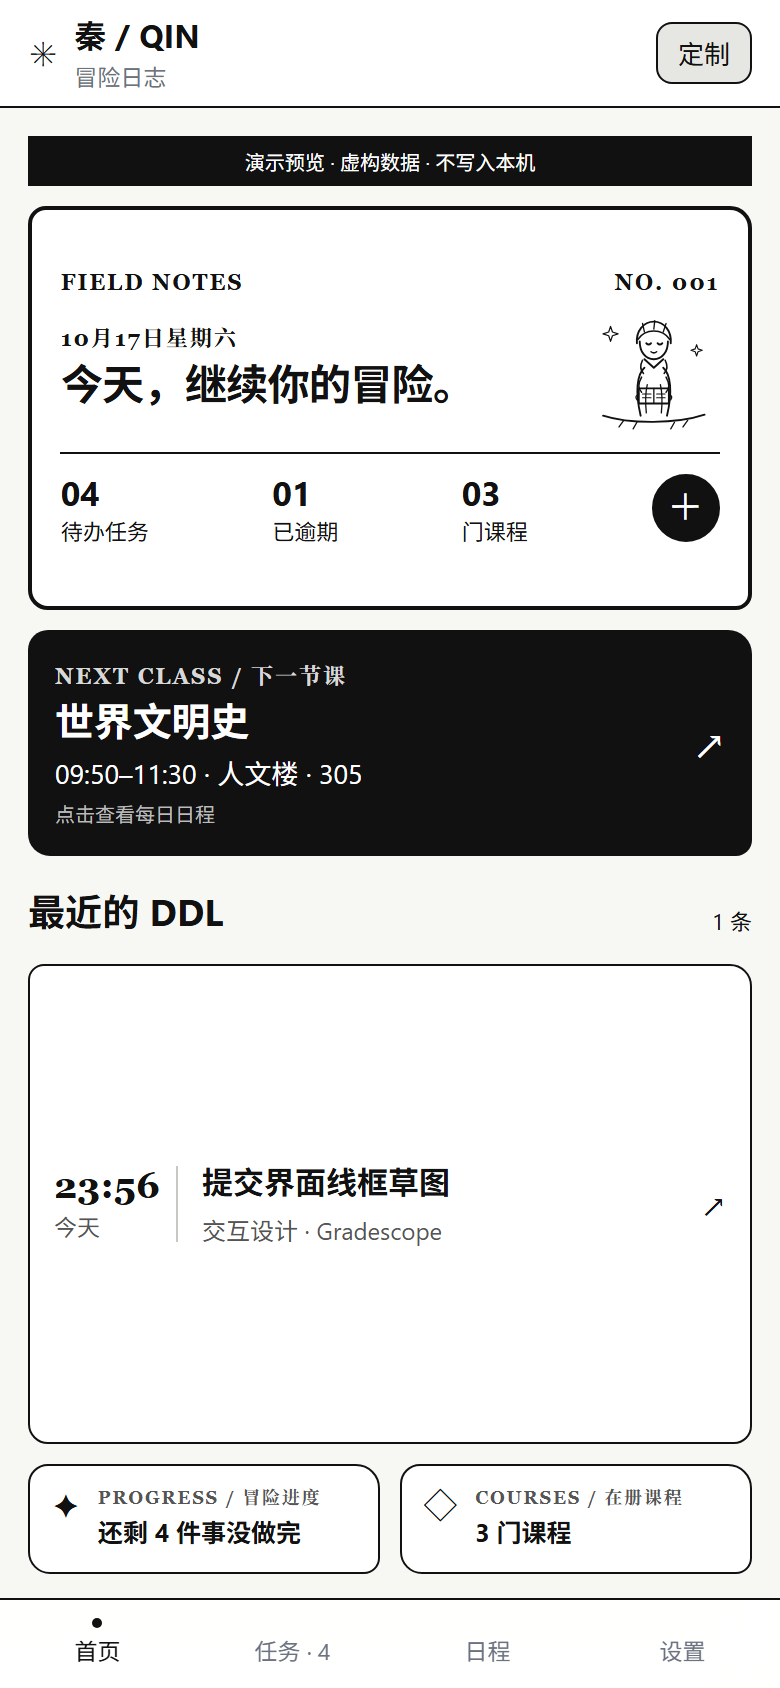
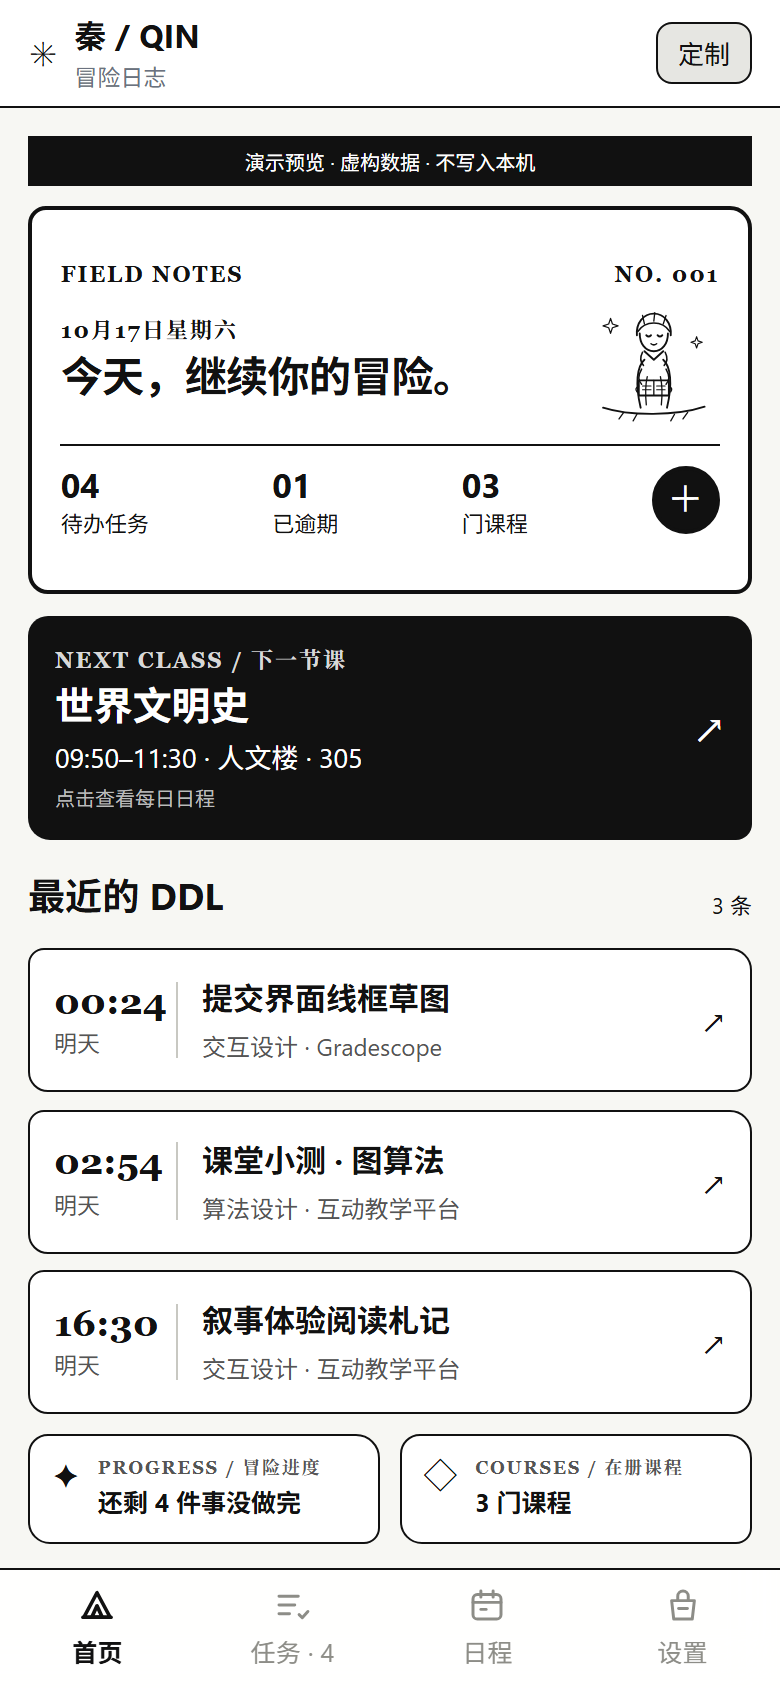
chore(dev): 左滑与详情路由的验证脚本与截图

diff --git a/tools/expr-swipe-and-detail.js b/tools/expr-swipe-and-detail.js
@@ -1,0 +1,82 @@
+(async () => {
+  const sleep = (ms) => new Promise((r) => setTimeout(r, ms));
+  const setValue = (el, value) => {
+    Object.getOwnPropertyDescriptor(HTMLInputElement.prototype, 'value').set.call(el, value);
+    el.dispatchEvent(new Event('input', { bubbles: true }));
+  };
+  const btn = (t) => [...document.querySelectorAll('button')].find((b) => b.textContent.includes(t));
+  const out = [];
+
+  // 1) 新建一条自建任务（带时间）
+  document.querySelector('.quest-intro__add').click();
+  await sleep(320);
+  btn('自主添加')?.click();
+  await sleep(380);
+  setValue(document.querySelector('.sheet input[placeholder*="作业"]'), '自建详情自检');
+  await sleep(120);
+  const d = new Date();
+  const pad = (n) => String(n).padStart(2, '0');
+  setValue(
+    document.querySelector('.sheet input[type="datetime-local"]'),
+    `${d.getFullYear()}-${pad(d.getMonth() + 1)}-${pad(d.getDate())}T23:20`,
+  );
+  await sleep(150);
+  btn('保存')?.click();
+  await sleep(850);
+
+  // 2) 点它，应该打开编辑表单而不是演示详情抽屉
+  document.querySelectorAll('.tabbar button')[1].click();
+  await sleep(700);
+  const row = [...document.querySelectorAll('.log-row')].find((r) => r.textContent.includes('自建详情自检'));
+  out.push('找到这一行 = ' + (row !== undefined));
+  row?.click();
+  await sleep(600);
+  const sheetTitle = (document.querySelector('.sheet input[placeholder*="作业"]')?.value) ?? '(没打开编辑表单)';
+  out.push('点开后编辑表单标题 = ' + sheetTitle);
+  out.push('是否误开演示抽屉 = ' + (document.querySelector('.ddl-detail') !== null));
+  btn('取消')?.click();
+  await sleep(400);
+
+  // 3) 左滑
+  const surface = row?.closest('.swipe')?.querySelector('.swipe__surface');
+  const swipe = row?.closest('.swipe');
+  out.push('包了 swipe 容器 = ' + (swipe !== undefined && swipe !== null));
+  out.push('操作按钮 = ' + JSON.stringify([...(swipe?.querySelectorAll('.swipe__action') ?? [])].map((b) => b.textContent)));
+
+  if (surface !== undefined && surface !== null) {
+    const r = surface.getBoundingClientRect();
+    const y = r.top + r.height / 2;
+    const fire = (type, x, extra = {}) => surface.dispatchEvent(new PointerEvent(type, {
+      bubbles: true, cancelable: true, clientX: x, clientY: y, pointerId: 1, isPrimary: true, pointerType: 'touch', ...extra,
+    }));
+    fire('pointerdown', r.right - 20);
+    await sleep(30);
+    fire('pointermove', r.right - 60);
+    await sleep(30);
+    fire('pointermove', r.right - 110);
+    await sleep(30);
+    fire('pointerup', r.right - 110);
+    await sleep(400);
+    const after = surface.getBoundingClientRect();
+    out.push('滑开后位移 = ' + Math.round(after.left - r.left) + 'px  data-open=' + swipe?.dataset.open);
+  }
+
+  // 4) 点删除
+  const del = [...(swipe?.querySelectorAll('.swipe__action') ?? [])].find((b) => b.textContent === '删除');
+  out.push('有删除按钮 = ' + (del !== undefined));
+  del?.click();
+  await sleep(800);
+  const stillThere = [...document.querySelectorAll('.log-row')].some((r) => r.textContent.includes('自建详情自检'));
+  out.push('删除后还在吗 = ' + stillThere);
+
+  // 5) 底部栏
+  const tabs = [...document.querySelectorAll('.tabbar button')].map((b) => ({
+    icon: b.querySelector('svg') !== null,
+    label: b.textContent.trim(),
+    fs: getComputedStyle(b).fontSize,
+    color: getComputedStyle(b).color,
+    active: b.dataset.active,
+  }));
+  out.push('底部栏 = ' + JSON.stringify(tabs));
+  return out.join('\n');
+})()

diff --git a/tools/expr-detail-routing.js b/tools/expr-detail-routing.js
@@ -1,0 +1,51 @@
+(async () => {
+  const sleep = (ms) => new Promise((r) => setTimeout(r, ms));
+  const out = [];
+
+  // 任务页：点第 2 条平台 DDL，详情标题应该跟着变
+  document.querySelectorAll('.tabbar button')[1].click();
+  await sleep(700);
+  const rows = [...document.querySelectorAll('.log-row')];
+  const titles = rows.map((r) => (r.querySelector('.log-row__body strong')?.textContent || '').trim());
+  out.push('列表标题 = ' + JSON.stringify(titles.slice(0, 4)));
+
+  const second = rows[1];
+  const expect = titles[1]?.replace(/自建$/, '').trim();
+  second?.click();
+  await sleep(600);
+  const detail = document.querySelector('.ddl-detail');
+  if (detail === null) out.push('第 2 条 → 不是演示抽屉（可能是编辑表单）= ' + (document.querySelector('.sheet') !== null));
+  else {
+    const got = (detail.querySelector('h2, .ddl-detail__title, strong')?.textContent || '').replace(/\s+/g, ' ').trim();
+    out.push('第 2 条详情标题 = ' + got);
+    out.push('与列表第 2 条一致 = ' + (expect === undefined ? '-' : got.includes(expect)));
+  }
+  document.querySelector('.ddl-detail-backdrop')?.click();
+  await sleep(400);
+
+  // 第 3 条
+  const rows2 = [...document.querySelectorAll('.log-row')];
+  const expect3 = (rows2[2]?.querySelector('.log-row__body strong')?.textContent || '').replace(/自建$/, '').trim();
+  rows2[2]?.click();
+  await sleep(600);
+  const d3 = document.querySelector('.ddl-detail');
+  if (d3 !== null) {
+    const got3 = (d3.querySelector('h2, .ddl-detail__title, strong')?.textContent || '').replace(/\s+/g, ' ').trim();
+    out.push('第 3 条详情标题 = ' + got3 + '  与列表一致 = ' + (got3.includes(expect3)));
+  } else out.push('第 3 条 → 不是演示抽屉');
+  document.querySelector('.ddl-detail-backdrop')?.click();
+  await sleep(300);
+
+  // 首页 DDL 卡
+  document.querySelectorAll('.tabbar button')[0].click();
+  await sleep(600);
+  const card = document.querySelector('.ddl-card');
+  const cardTitle = (card?.querySelector('.ddl-card__body strong')?.textContent || '').trim();
+  card?.click();
+  await sleep(600);
+  const home = document.querySelector('.ddl-detail') !== null
+    ? (document.querySelector('.ddl-detail')?.textContent || '').replace(/\s+/g, ' ').trim().slice(0, 40)
+    : '(编辑表单或没打开)';
+  out.push('首页卡「' + cardTitle + '」→ ' + home);
+  return out.join('\n');
+})()

diff --git a/tools/expr-swipe-shot.js b/tools/expr-swipe-shot.js
@@ -1,0 +1,47 @@
+(async () => {
+  const sleep = (ms) => new Promise((r) => setTimeout(r, ms));
+  const setValue = (el, value) => {
+    Object.getOwnPropertyDescriptor(HTMLInputElement.prototype, 'value').set.call(el, value);
+    el.dispatchEvent(new Event('input', { bubbles: true }));
+  };
+  const btn = (t) => [...document.querySelectorAll('button')].find((b) => b.textContent.includes(t));
+
+  document.querySelector('.quest-intro__add').click();
+  await sleep(320);
+  btn('自主添加')?.click();
+  await sleep(380);
+  setValue(document.querySelector('.sheet input[placeholder*="作业"]'), '自建：读书笔记');
+  await sleep(120);
+  const d = new Date();
+  const pad = (n) => String(n).padStart(2, '0');
+  setValue(
+    document.querySelector('.sheet input[type="datetime-local"]'),
+    `${d.getFullYear()}-${pad(d.getMonth() + 1)}-${pad(d.getDate())}T23:30`,
+  );
+  await sleep(150);
+  btn('保存')?.click();
+  await sleep(850);
+
+  document.querySelectorAll('.tabbar button')[1].click();
+  await sleep(700);
+
+  // 把「自建：读书笔记」那一行滑开，截图里就能看到编辑/删除
+  const row = [...document.querySelectorAll('.log-row')].find((r) => r.textContent.includes('自建：读书笔记'));
+  const surface = row?.closest('.swipe')?.querySelector('.swipe__surface');
+  if (surface !== undefined && surface !== null) {
+    const r = surface.getBoundingClientRect();
+    const y = r.top + r.height / 2;
+    const fire = (type, x) => surface.dispatchEvent(new PointerEvent(type, {
+      bubbles: true, cancelable: true, clientX: x, clientY: y, pointerId: 1, isPrimary: true, pointerType: 'touch',
+    }));
+    fire('pointerdown', r.right - 20);
+    await sleep(30);
+    fire('pointermove', r.right - 70);
+    await sleep(30);
+    fire('pointermove', r.right - 120);
+    await sleep(30);
+    fire('pointerup', r.right - 120);
+    await sleep(400);
+  }
+  return 'swiped';
+})()

diff --git a/tools/expr-tabbar-fit.js b/tools/expr-tabbar-fit.js
@@ -1,0 +1,19 @@
+JSON.stringify((() => {
+  const bar = document.querySelector('.tabbar');
+  const body = document.querySelector('.app__body');
+  const slots = [...document.querySelectorAll('.home-slot[data-card]')];
+  const last = slots[slots.length - 1];
+  const barTop = bar === null ? 0 : bar.getBoundingClientRect().top;
+  const lastBottom = last === undefined ? 0 : last.getBoundingClientRect().bottom;
+  return {
+    vw: innerWidth,
+    vh: innerHeight,
+    tabbarH: bar === null ? null : Math.round(bar.getBoundingClientRect().height),
+    tabbarTop: Math.round(barTop),
+    lastCardBottom: Math.round(lastBottom),
+    coveredByTabbar: lastBottom > barTop + 1,
+    fits: body.scrollHeight <= body.clientHeight + 1,
+    overflow: body.scrollHeight - body.clientHeight,
+    padBottom: getComputedStyle(body).paddingBottom,
+  };
+})())
